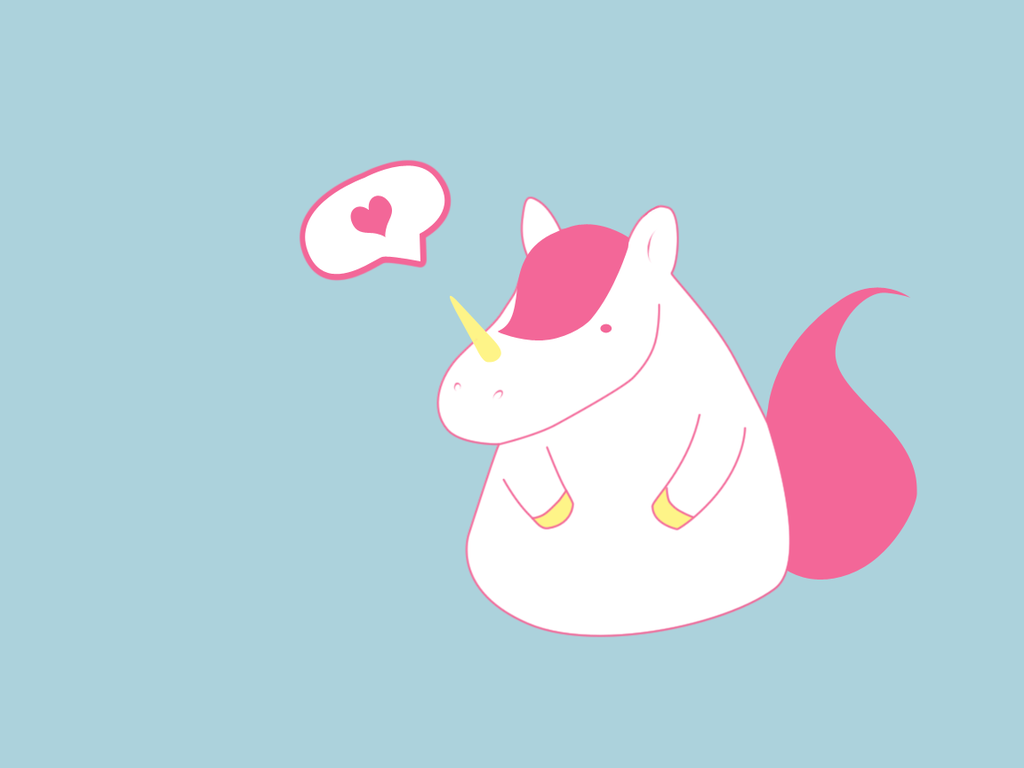
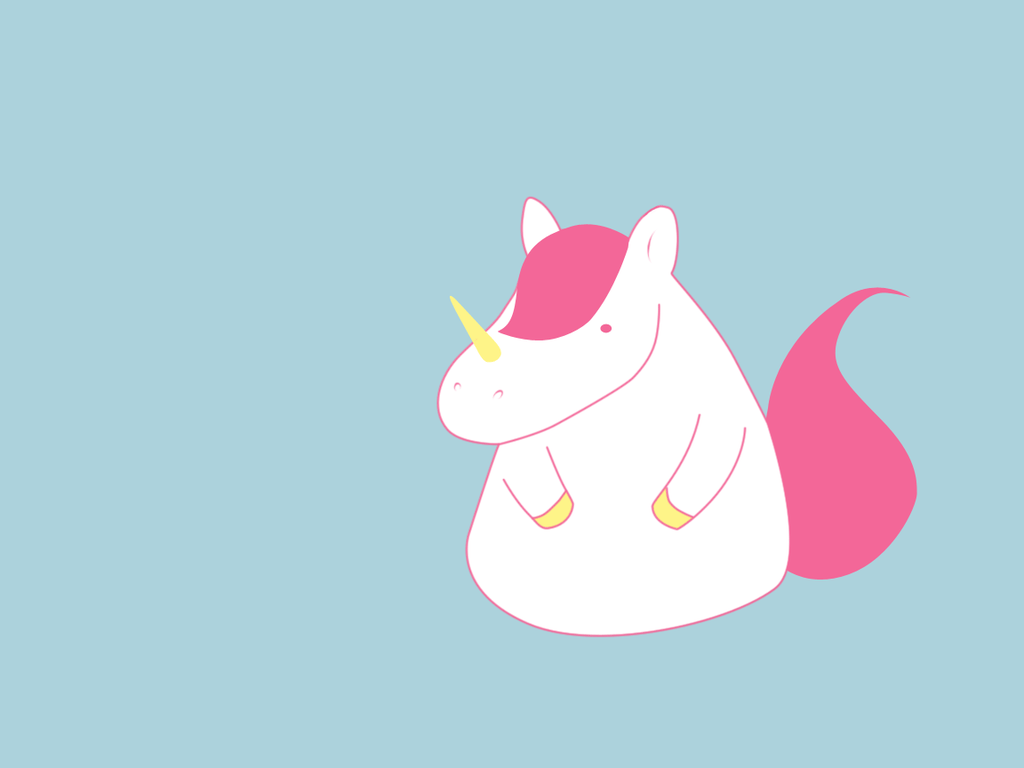
Checkin the js mess

Changed region(s): [[0.2812, 0.1875, 0.4375, 0.375]]

diff --git a/Unicorn.Web.UI/index.htm b/Unicorn.Web.UI/index.htm
@@ -9,41 +9,197 @@
             font-family: 'Alegreya Sans', sans-serif;
         }
     </style>
-    <link rel="stylesheet" href="//cdnjs.cloudflare.com/ajax/libs/toastr.js/latest/css/toastr.min.css"/>
     <style>
-        .toast-info { background-color: #fff;}
-        #toast-container>div { 
+        body {
+            width: 100%;
+            height: 100%;
+            margin: 0;
+            padding: 0;
+        }
+
+        .toast-info {
+            background-color: #fff;
+        }
+
+        #toast-container > div {
             color: #f36798;
             font-weight: bold;
             border: 7px solid #f36798;
             padding: 15px;
+        }
+
+        .message {
+            color: #f36798;
+            font-weight: bold;
+            border: 7px solid #f36798;
+            padding: 15px;
+            background-color: #fff;
+            border-radius: 20px;
+            transform: rotate(-20deg);
+            width: 300px;
+            height: 50px;
+            position: fixed;
+            top: 50%;
+            left: 50%;
+            margin-top: -200px;
+            margin-left: -345px;
+        }
+
+            .message:before {
+                content: ' ';
+                position: absolute;
+                width: 0;
+                height: 0;
+                left: 240px;
+                top: 80px;
+                border: 25px solid;
+                border-color: #f36798 transparent transparent;
+            }
+
+            .message:after {
+                content: ' ';
+                position: absolute;
+                width: 0;
+                height: 0;
+                left: 250px;
+                top: 79px;
+                border: 15px solid;
+                border-color: #fff transparent transparent;
+            }
+
+        .message-static {
+            transform: rotate(0);
+            position: relative;
+            margin: 0 0 20px 0;
+            top: auto;
+            left: auto;
+            clear: both;
+        }
+
+        .left {
+            float: left;
+        }
+
+        .right {
+            float: right;
+        }
+
+        .blink {
+            animation-name: blink;
+            animation-duration: 1s;
+            animation-iteration-count: 1;
+        }
+
+        .stack-left {
+            animation-name: stack-left;
+            animation-iteration-count: 1;
+            animation-duration: 10s;
+            animation-fill-mode: forwards;
+        }
+        .stack-right {
+            animation-name: stack-right;
+            animation-iteration-count: 1;
+            animation-duration: 10s;
+            animation-fill-mode: forwards;
+        }
+
+        @keyframes blink {
+            0% {
+                border-color: #f36798;
+            }
+
+            50% {
+                border-color: #ffff00;
+            }
+
+            100% {
+                border-color: #f36798;
+            }
+        }
+
+        @keyframes stack-left {
+            0% {
+                left: 50%;
+                margin-left: -345px;
+                transform: rotate(-20deg);
+            }
+
+            50% {
+                top: 50%;
+                margin-top: -200px;
+                left: 0;
+                margin-left: 0;
+                transform: rotate(0);
+            }
+
+            100% {
+                top: 0;
+                margin-top: 0;
+                left: 0;
+                margin-left: 0;
+                transform: rotate(0);
+            }
+        }
+        @keyframes stack-right {
+            0% {
+                left: 50%;
+                margin-left: -345px;
+                transform: rotate(-20deg);
+            }
+
+            50% {
+                top: 50%;
+                margin-top: -200px;
+                left: 100%;
+                margin-left: -345px;
+                margin-right: 0;
+                transform: rotate(0);
+            }
+
+            100% {
+                top: 0;
+                margin-top: 0;
+                left: auto;
+                right: 0;
+                margin-left: auto;
+                margin-right: 0;
+                transform: rotate(0);
+            }
         }
     </style>
     <link href='https://fonts.googleapis.com/css?family=Alegreya+Sans' rel='stylesheet' type='text/css'>
 
 </head>
 <body>
-    <script src="//ajax.aspnetcdn.com/ajax/jQuery/jquery-2.2.0.min.js"></script>
-    <script src="//ajax.aspnetcdn.com/ajax/signalr/jquery.signalr-2.2.0.min.js"></script>
-    <script src="//cdnjs.cloudflare.com/ajax/libs/toastr.js/latest/js/toastr.min.js"></script>
-    
+<!--<div id="message" class="message"></div>-->
+<script src="//ajax.aspnetcdn.com/ajax/jQuery/jquery-2.2.0.min.js"></script>
+<script src="//ajax.aspnetcdn.com/ajax/signalr/jquery.signalr-2.2.0.min.js"></script>
+
 
 <script>
     var connection = $.hubConnection("https://unicorn.azurewebsites.net");
     var messageHub = connection.createHubProxy('messageHub');
-    messageHub.on('addMessage', function (userName, message, disco) {
-        if (disco) {
-            toastr.options.timeOut = (60000) * 60;
-            toastr.options.progressBar = true;
-        } else {
-            toastr.options.timeOut = (60000) * 10;
-        }
-        toastr.options.positionClass = "toast-top-center";
-        toastr["info"](userName + ': ' + message);
+    messageHub.on('addMessage', function(userName, message, disco) {
+        var messageDiv = $("<div></div>");
+        messageDiv.addClass("message");
+        messageDiv.attr("data-dir", (disco ? "right" : "left"));
+        messageDiv.attr("data-show", (disco ? (60000*60) : 60000));
+        messageDiv.text(userName + ": " + message);
+        messageDiv.bind("animationend webkitAnimationEnd oAnimationEnd MSAnimationEnd", function() {
+            $(this).removeClass("blink");
+            messageDiv.bind("animationend webkitAnimationEnd oAnimationEnd MSAnimationEnd", function() {
+                $(this).removeClass("stack-right").addClass("message-static").addClass($(this).attr("data-dir"));
+                $(this).delay($(this).attr("data-show")).queue(function() { $(this).remove(); });
+            }).addClass("stack-" + $(this).attr("data-dir"));
+        }).addClass("blink");
+
+        $("body").append(messageDiv);
+
+
     });
     connection.start()
-        .done(function(){ console.log('Now connected, connection ID=' + connection.id); })
-        .fail(function(){ console.log('Could not connect'); });
+        .done(function() { console.log('Now connected, connection ID=' + connection.id); })
+        .fail(function() { console.log('Could not connect'); });
 </script>
 </body>
 </html>
